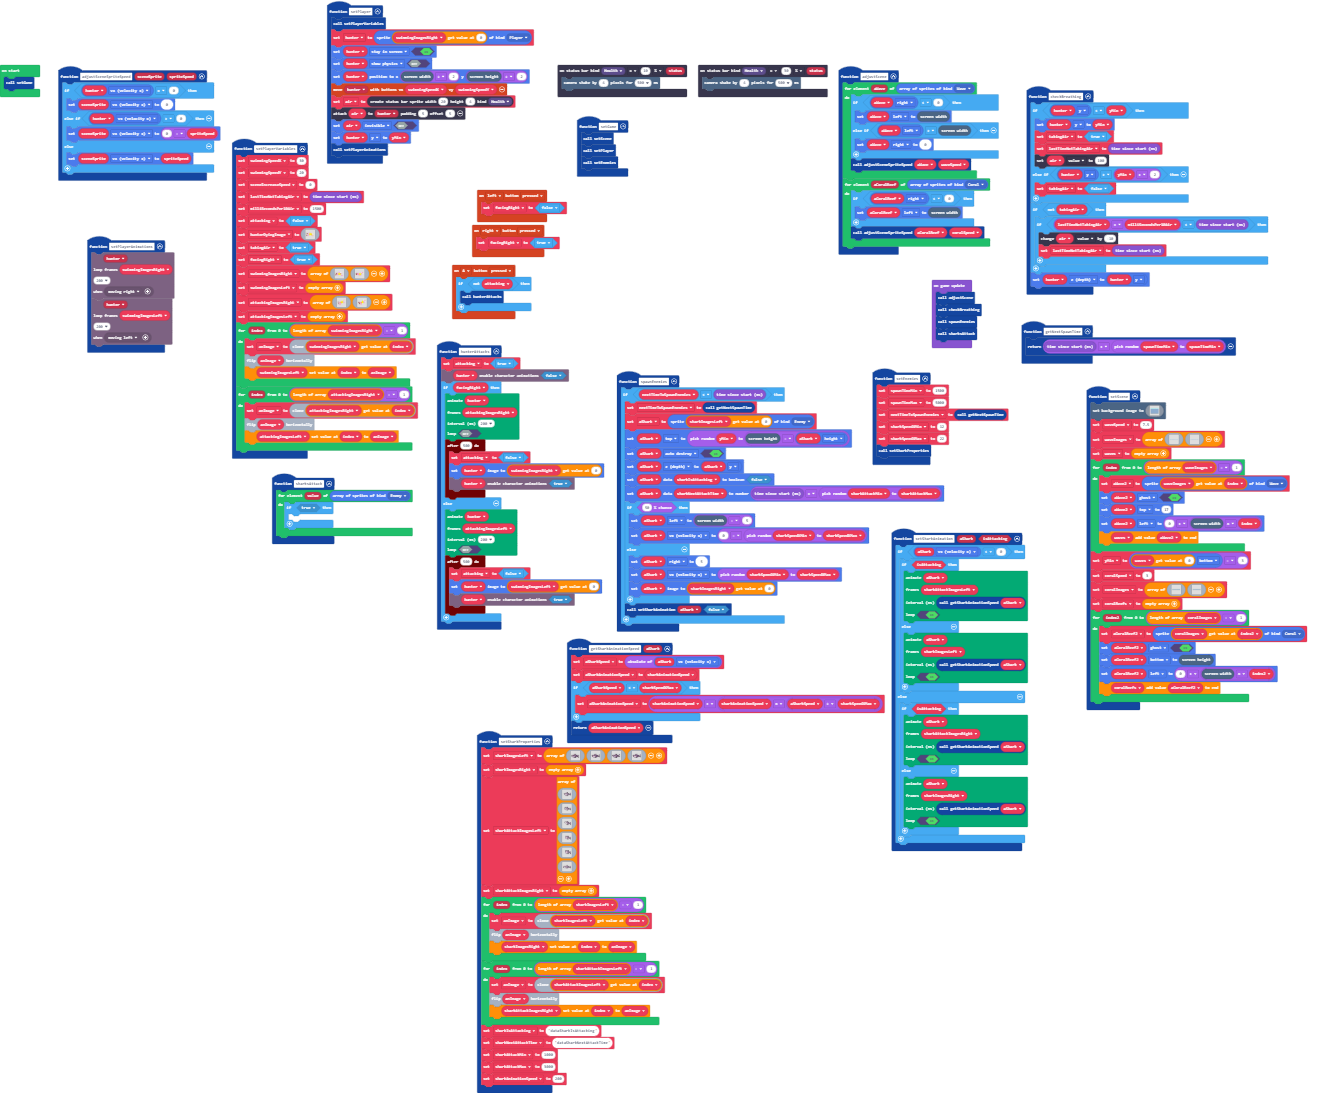
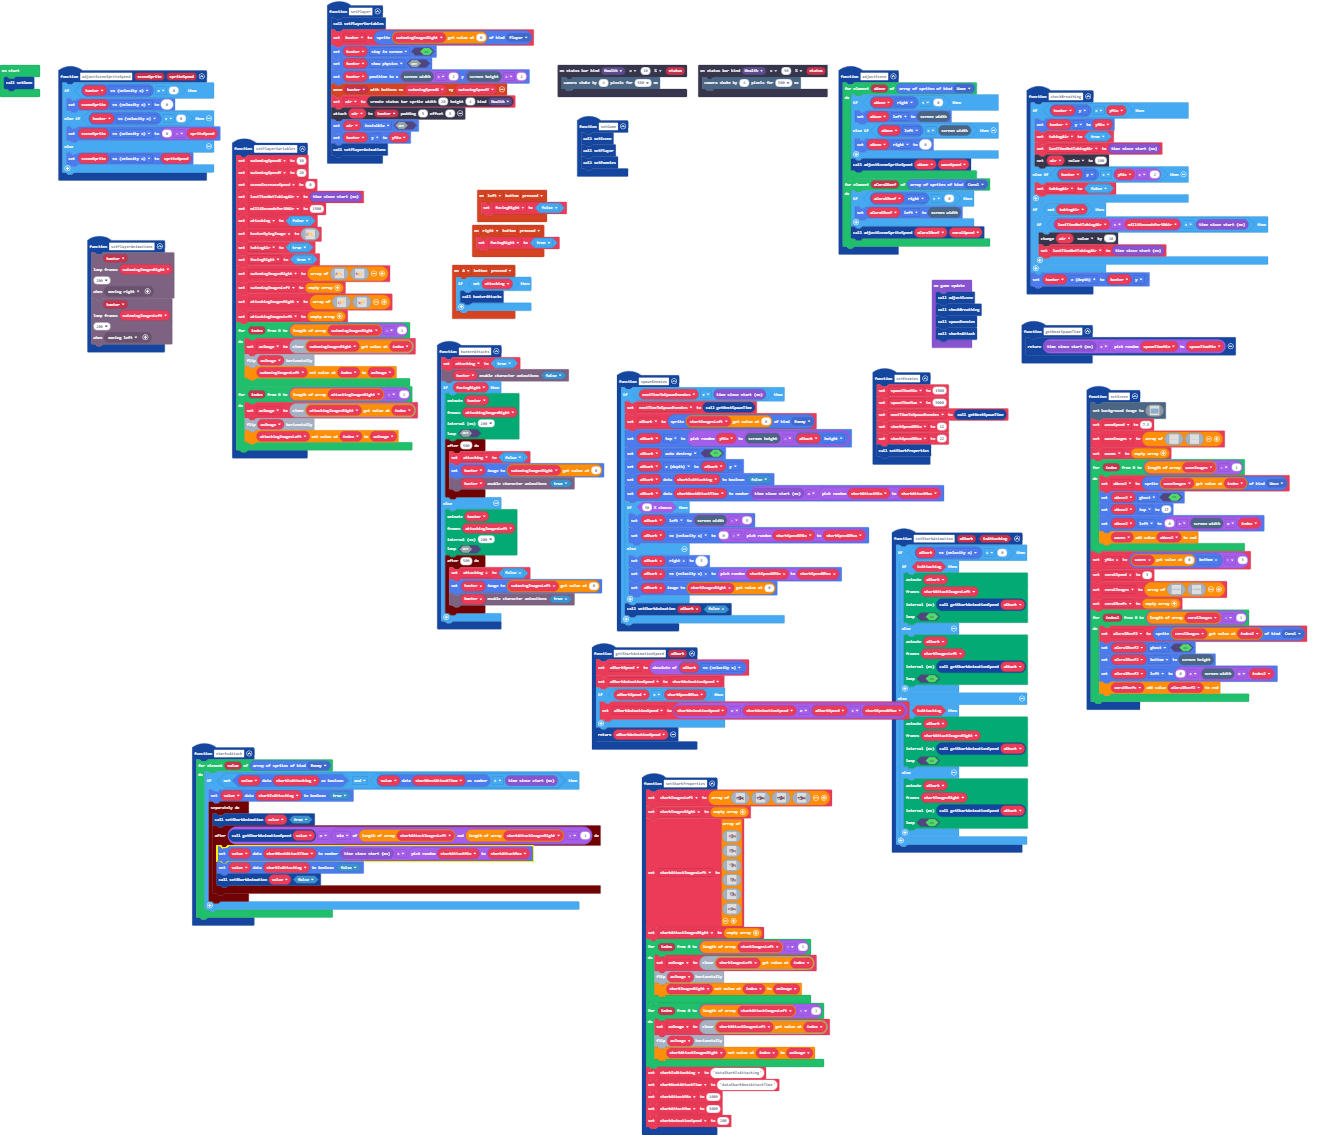
Sharks attack at different times.

diff --git a/main.ts b/main.ts
@@ -536,8 +536,16 @@ function setScene () {
 }
 function sharksAttack () {
     for (let value of sprites.allOfKind(SpriteKind.Enemy)) {
-        if (true) {
-        	
+        if (!(sprites.readDataBoolean(value, sharkIsAttacking)) && sprites.readDataNumber(value, sharkNextAttackTime) < game.runtime()) {
+            sprites.setDataBoolean(value, sharkIsAttacking, true)
+            timer.background(function () {
+                setSharkAnimation(value, true)
+                timer.after(getSharkAnimationSpeed(value) * (Math.min(sharkAttackImagesLeft.length, sharkAttackImagesRight.length) - 1), function () {
+                    sprites.setDataNumber(value, sharkNextAttackTime, game.runtime() + randint(sharkAttackMin, sharkAttackMax))
+                    sprites.setDataBoolean(value, sharkIsAttacking, false)
+                    setSharkAnimation(value, false)
+                })
+            })
         }
     }
 }
